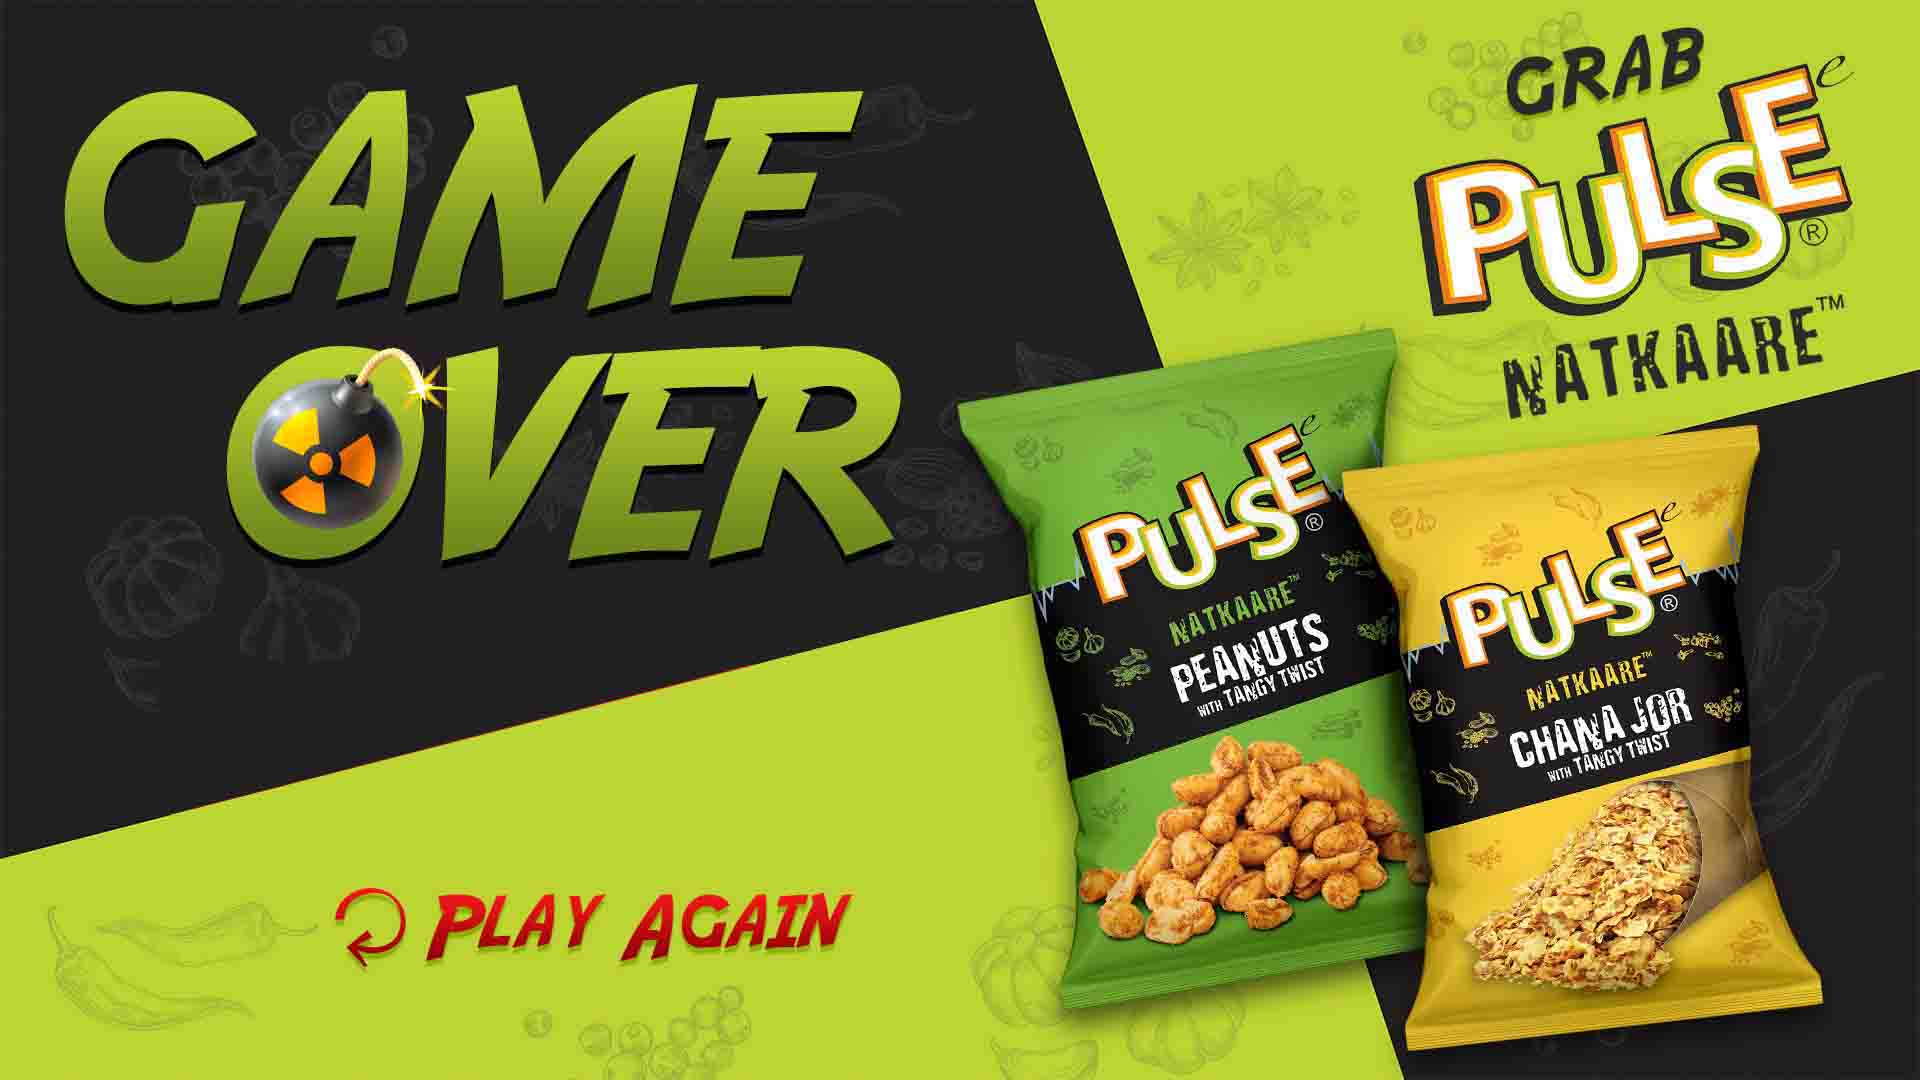
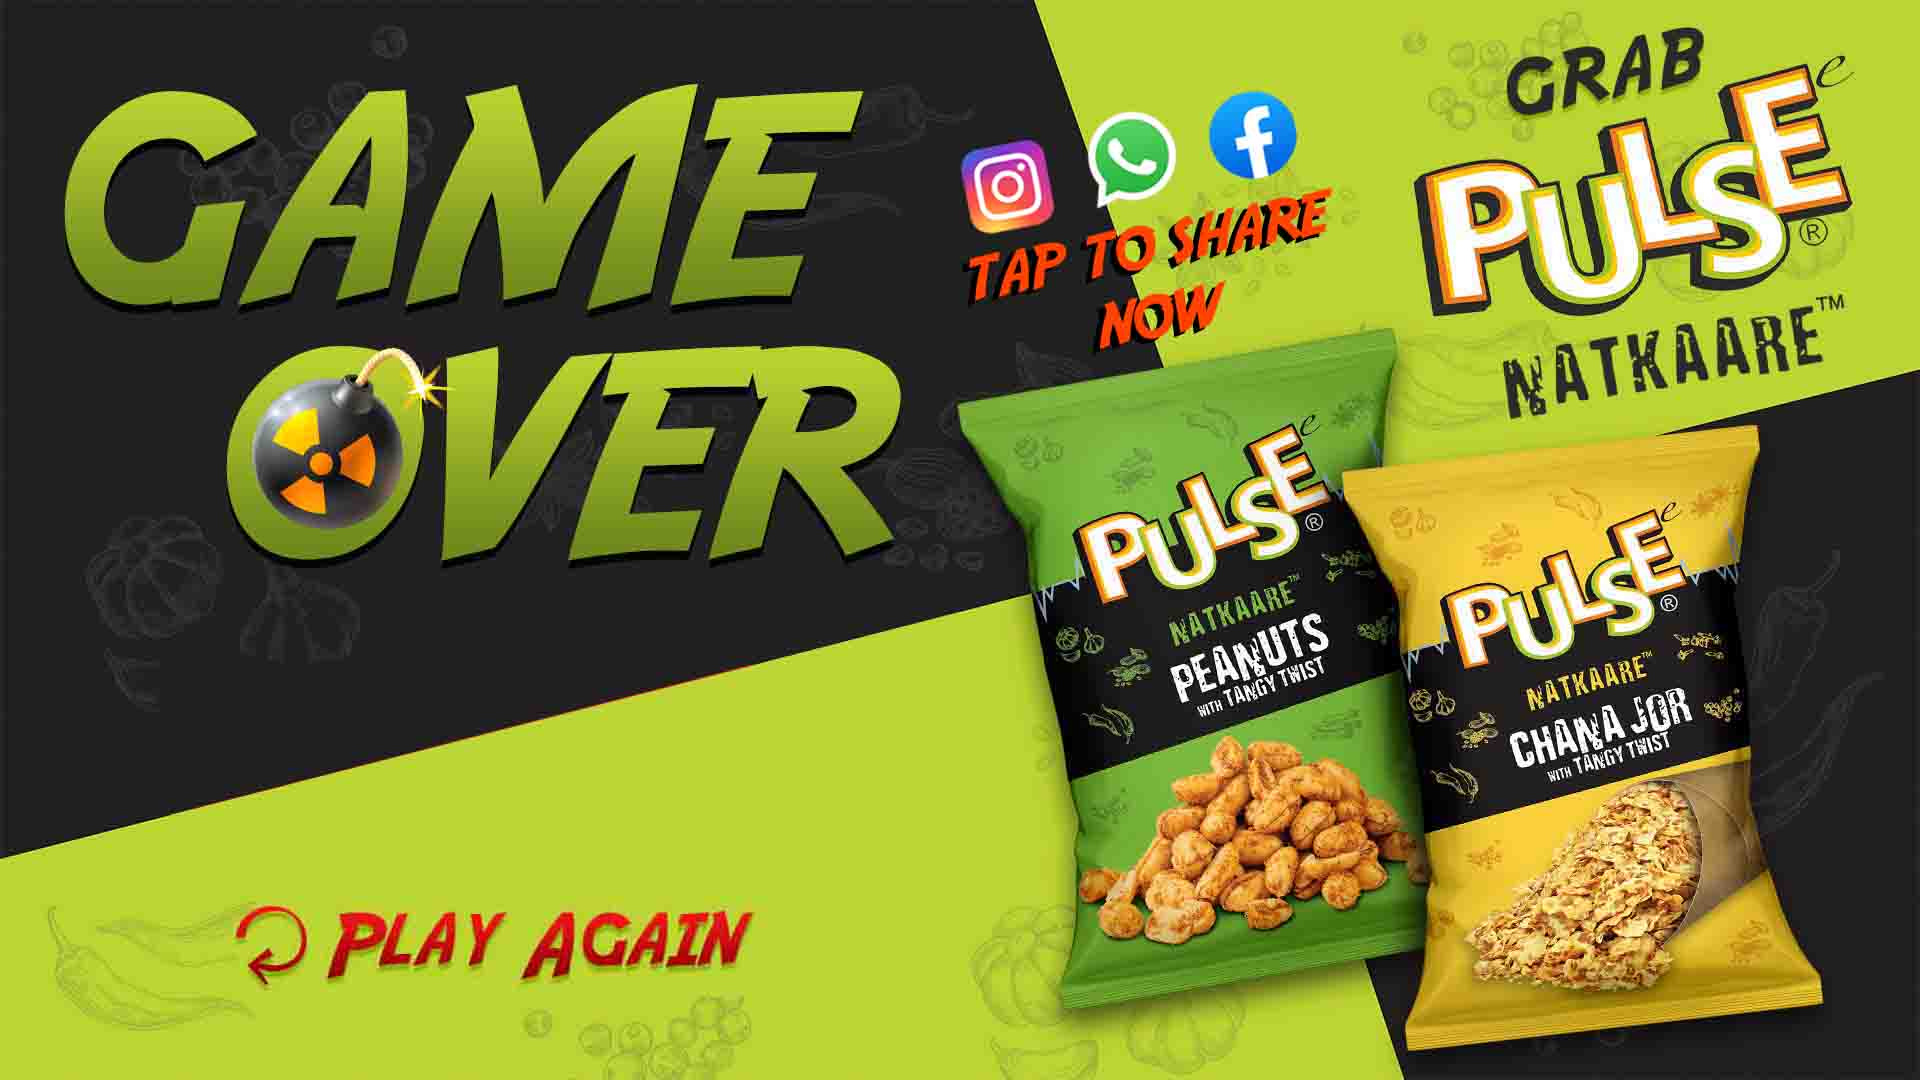
asd

Changed region(s): [[0.5, 0.0611, 0.6875, 0.3361], [0.125, 0.825, 0.4688, 0.9167]]

diff --git a/index.html b/index.html
@@ -49,7 +49,8 @@
   <div class="gameOverDiv">
     <div id="gameOverText" class="gameOverText">Game Over</div>
   </div>
-  
+
+  <div class="share" type="button" onclick="onShare()" ></div>
   <div class="playAgain" type="button" onclick="playAgain()" ></div>
 
 </div>
@@ -323,6 +324,13 @@ form{
     top: 0%;
     background-color: transparent;
 
+}
+.share{
+    height: 40%;
+    width: 100%;
+    position: relative;
+    top: -71%;
+    background-color: transparent;
 }
 
 .portraitInfoButton{
